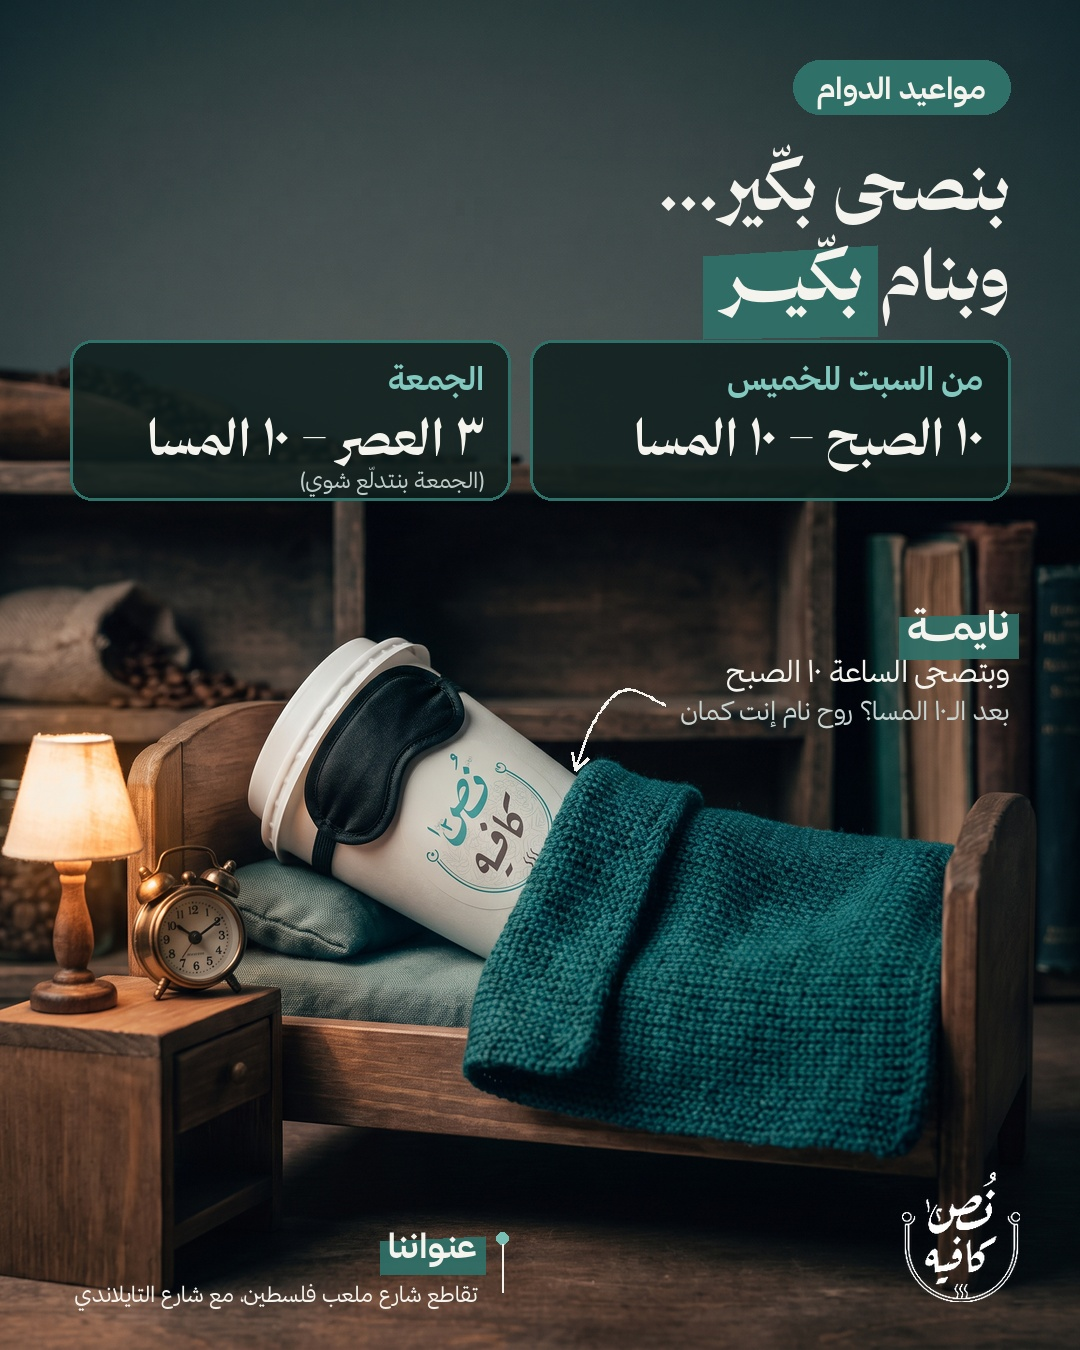
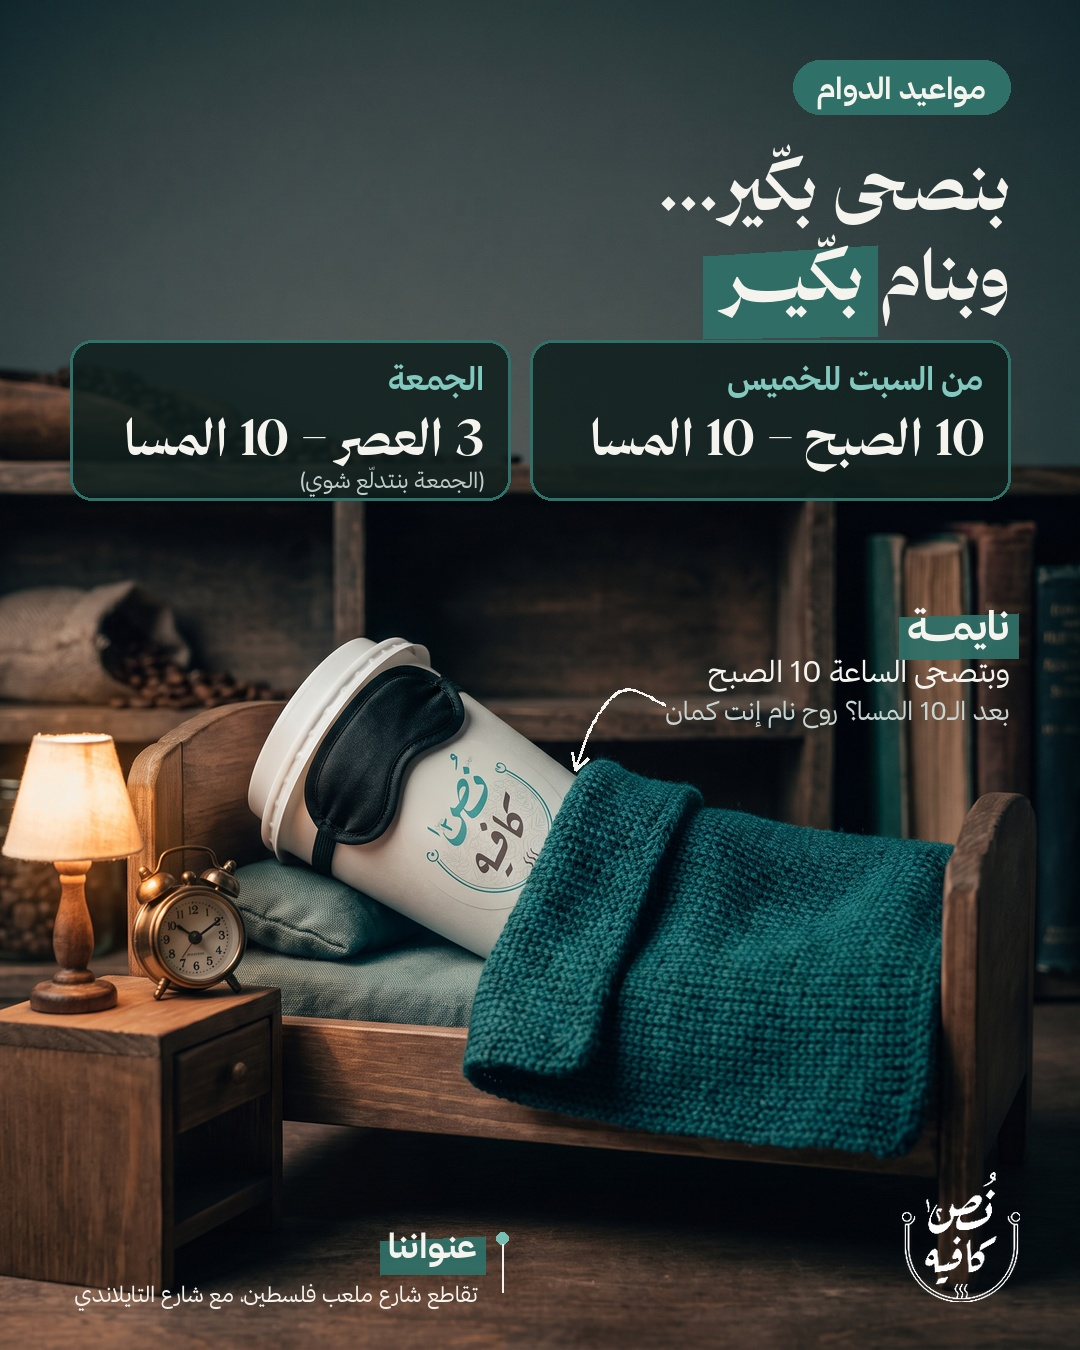
Use English digits in hours post and campaign
Claude-Session: https://claude.ai/code/session_015dwSS3fWoFBppmEP84oyNx

diff --git a/tools/hours_post.py b/tools/hours_post.py
@@ -17,14 +17,14 @@ def card(x0,x1,day,hrs,note=None):
     dd.text((x1-26,390),day,font=SB(32),fill=(130,200,190),direction='rtl',anchor='rs')
     dd.text((x1-26,455),hrs,font=DB(50),fill=WHITE,direction='rtl',anchor='rs')
     if note: dd.text((x1-26,488),note,font=SR(22),fill=(190,205,202),direction='rtl',anchor='rs')
-card(530,1010,'من السبت للخميس','١٠ الصبح – ١٠ المسا')
-card(70,510,'الجمعة','٣ العصر – ١٠ المسا','(الجمعة بنتدلّع شوي)')
+card(530,1010,'من السبت للخميس','10 الصبح – 10 المسا')
+card(70,510,'الجمعة','3 العصر – 10 المسا','(الجمعة بنتدلّع شوي)')
 # funny label on the sleeping cup
 lx,ly=1010,640
 hl(im,d,lx,ly,'نايمـــة',SB(40),pad=(8,2),skew=3); d=ImageDraw.Draw(im)
 d.text((lx,ly),'نايمـــة',font=SB(40),fill=WHITE,direction='rtl',anchor='rs')
-d.text((lx,ly+42),'وبتصحى الساعة ١٠ الصبح',font=SR(30),fill=WHITE,direction='rtl',anchor='rs')
-d.text((lx,ly+80),'بعد الـ١٠ المسا؟ روح نام إنت كمان',font=SR(26),fill=(200,212,209),direction='rtl',anchor='rs')
+d.text((lx,ly+42),'وبتصحى الساعة 10 الصبح',font=SR(30),fill=WHITE,direction='rtl',anchor='rs')
+d.text((lx,ly+80),'بعد الـ10 المسا؟ روح نام إنت كمان',font=SR(26),fill=(200,212,209),direction='rtl',anchor='rs')
 arrow_c(im,[(770,700),(760,740),(780,770),(800,800)] if False else [(665,705),(625,690),(595,720),(575,770)],WHITE)
 footer_c(im)
 im.convert('RGB').save(S+'out/hours_post.jpg',quality=95)
@@ -35,7 +35,7 @@ import copy
 ov=im.crop((0,0,W,520)); st.alpha_composite(ov,(0,120)) if False else None
 st.paste(im.crop((0,0,W,H)),(0,120))
 dd=ImageDraw.Draw(st)
-dd.text((1010,1565),'إحنا بنسكّر ١٠ المسا...',font=DB(64),fill=WHITE,direction='rtl',anchor='rs')
+dd.text((1010,1565),'إحنا بنسكّر 10 المسا...',font=DB(64),fill=WHITE,direction='rtl',anchor='rs')
 w=tw(dd,'تعال ',DB(80)); hl(st,dd,1010-w,1660,'بكّيـــر',DB(80),pad=(14,4),skew=7); dd=ImageDraw.Draw(st)
 dd.text((1010,1660),'تعال ',font=DB(80),fill=WHITE,direction='rtl',anchor='rs'); dd.text((1010-w,1660),'بكّيـــر',font=DB(80),fill=WHITE,direction='rtl',anchor='rs')
 

diff --git a/tools/indomie_campaign.py b/tools/indomie_campaign.py
@@ -27,7 +27,7 @@ def CC(img,a,b):
 def CD(img,q,attr): L_D(img,q,attr); tag(img)
 def CE(img,o,a,b): L_E(img,o,a,b); tag(img)
 P=[
- (1,CA,('جوعـــة','الساعة ١٢ بالليل... وبدك إندومي'),('إندومي','سادة مع بهارات')),
+ (1,CA,('جوعـــة','قبل ما نسكّر الساعة 10... إلحق إندوميك'),('إندومي','سادة مع بهارات')),
  (2,CB,('إندومي','وكاسة شاي','أحلى ثنائي'),('إندومي','وشاي بالنعنع')),
  (3,CC,('الدراسة بدها...','إندومـــي'),('إندومي','سادة مع بهارات')),
  (4,CD,('السرّ|بالبهارات','إندومي النُّص'),('بهارات','النُّص')),
@@ -38,7 +38,7 @@ P=[
  (9,CD,('مرقة سخنة|من النار لإيدك','إندومي النُّص'),('إندومي','من النار')),
  (10,CE,('شتوية','الشباك مغبّش...','والإندومي سخنة'),('إندومي','سادة مع بهارات')),
 ]
-STORY=[('جوعة آخر الليل؟','إندومـــي'),('إندومي','وكاسة شاي'),('الدراسة بدها','إندومـــي'),('السرّ','بالبهارات'),('جيب الشلّة','وتعـــال'),('خذها','تيكاوي'),('دفّي','إيديـــك'),('آخر الأسبوع','إندومـــي'),('من النار','لإيـــدك'),('الشتا','بدها إندومـــي')]
+STORY=[('جوعة العشا؟','إندومـــي'),('إندومي','وكاسة شاي'),('الدراسة بدها','إندومـــي'),('السرّ','بالبهارات'),('جيب الشلّة','وتعـــال'),('خذها','تيكاوي'),('دفّي','إيديـــك'),('آخر الأسبوع','إندومـــي'),('من النار','لإيـــدك'),('الشتا','بدها إندومـــي')]
 posts=[]; 
 for i,(n,fn,args,lab) in enumerate(P):
     im=cover(Image.open(S+f'camp/c{n:02d}.png').convert('RGB')).convert('RGBA'); CUR[0]=im.copy()

diff --git a/CLAUDE.md b/CLAUDE.md
@@ -31,6 +31,9 @@ The owner wants generation fully hooked up so Claude can work alone.
 - **Adobe** connector is linked, but it has no generative image tools.
 - A Gemini or OpenAI API key may be configured as an environment secret (`GEMINI_API_KEY` / `OPENAI_API_KEY`). Never ask for keys in chat.
 
+## Numbers
+- Always use **English digits** (10, 3), never Arabic-Indic (١٠).
+
 ## Opening hours
 - **Saturday to Thursday:** 10:00 to 22:00. **Friday:** 15:00 to 22:00.
 - They close at **22:00**. Never imply late-night or after-closing service, and never schedule a call-to-action story after 22:00.
